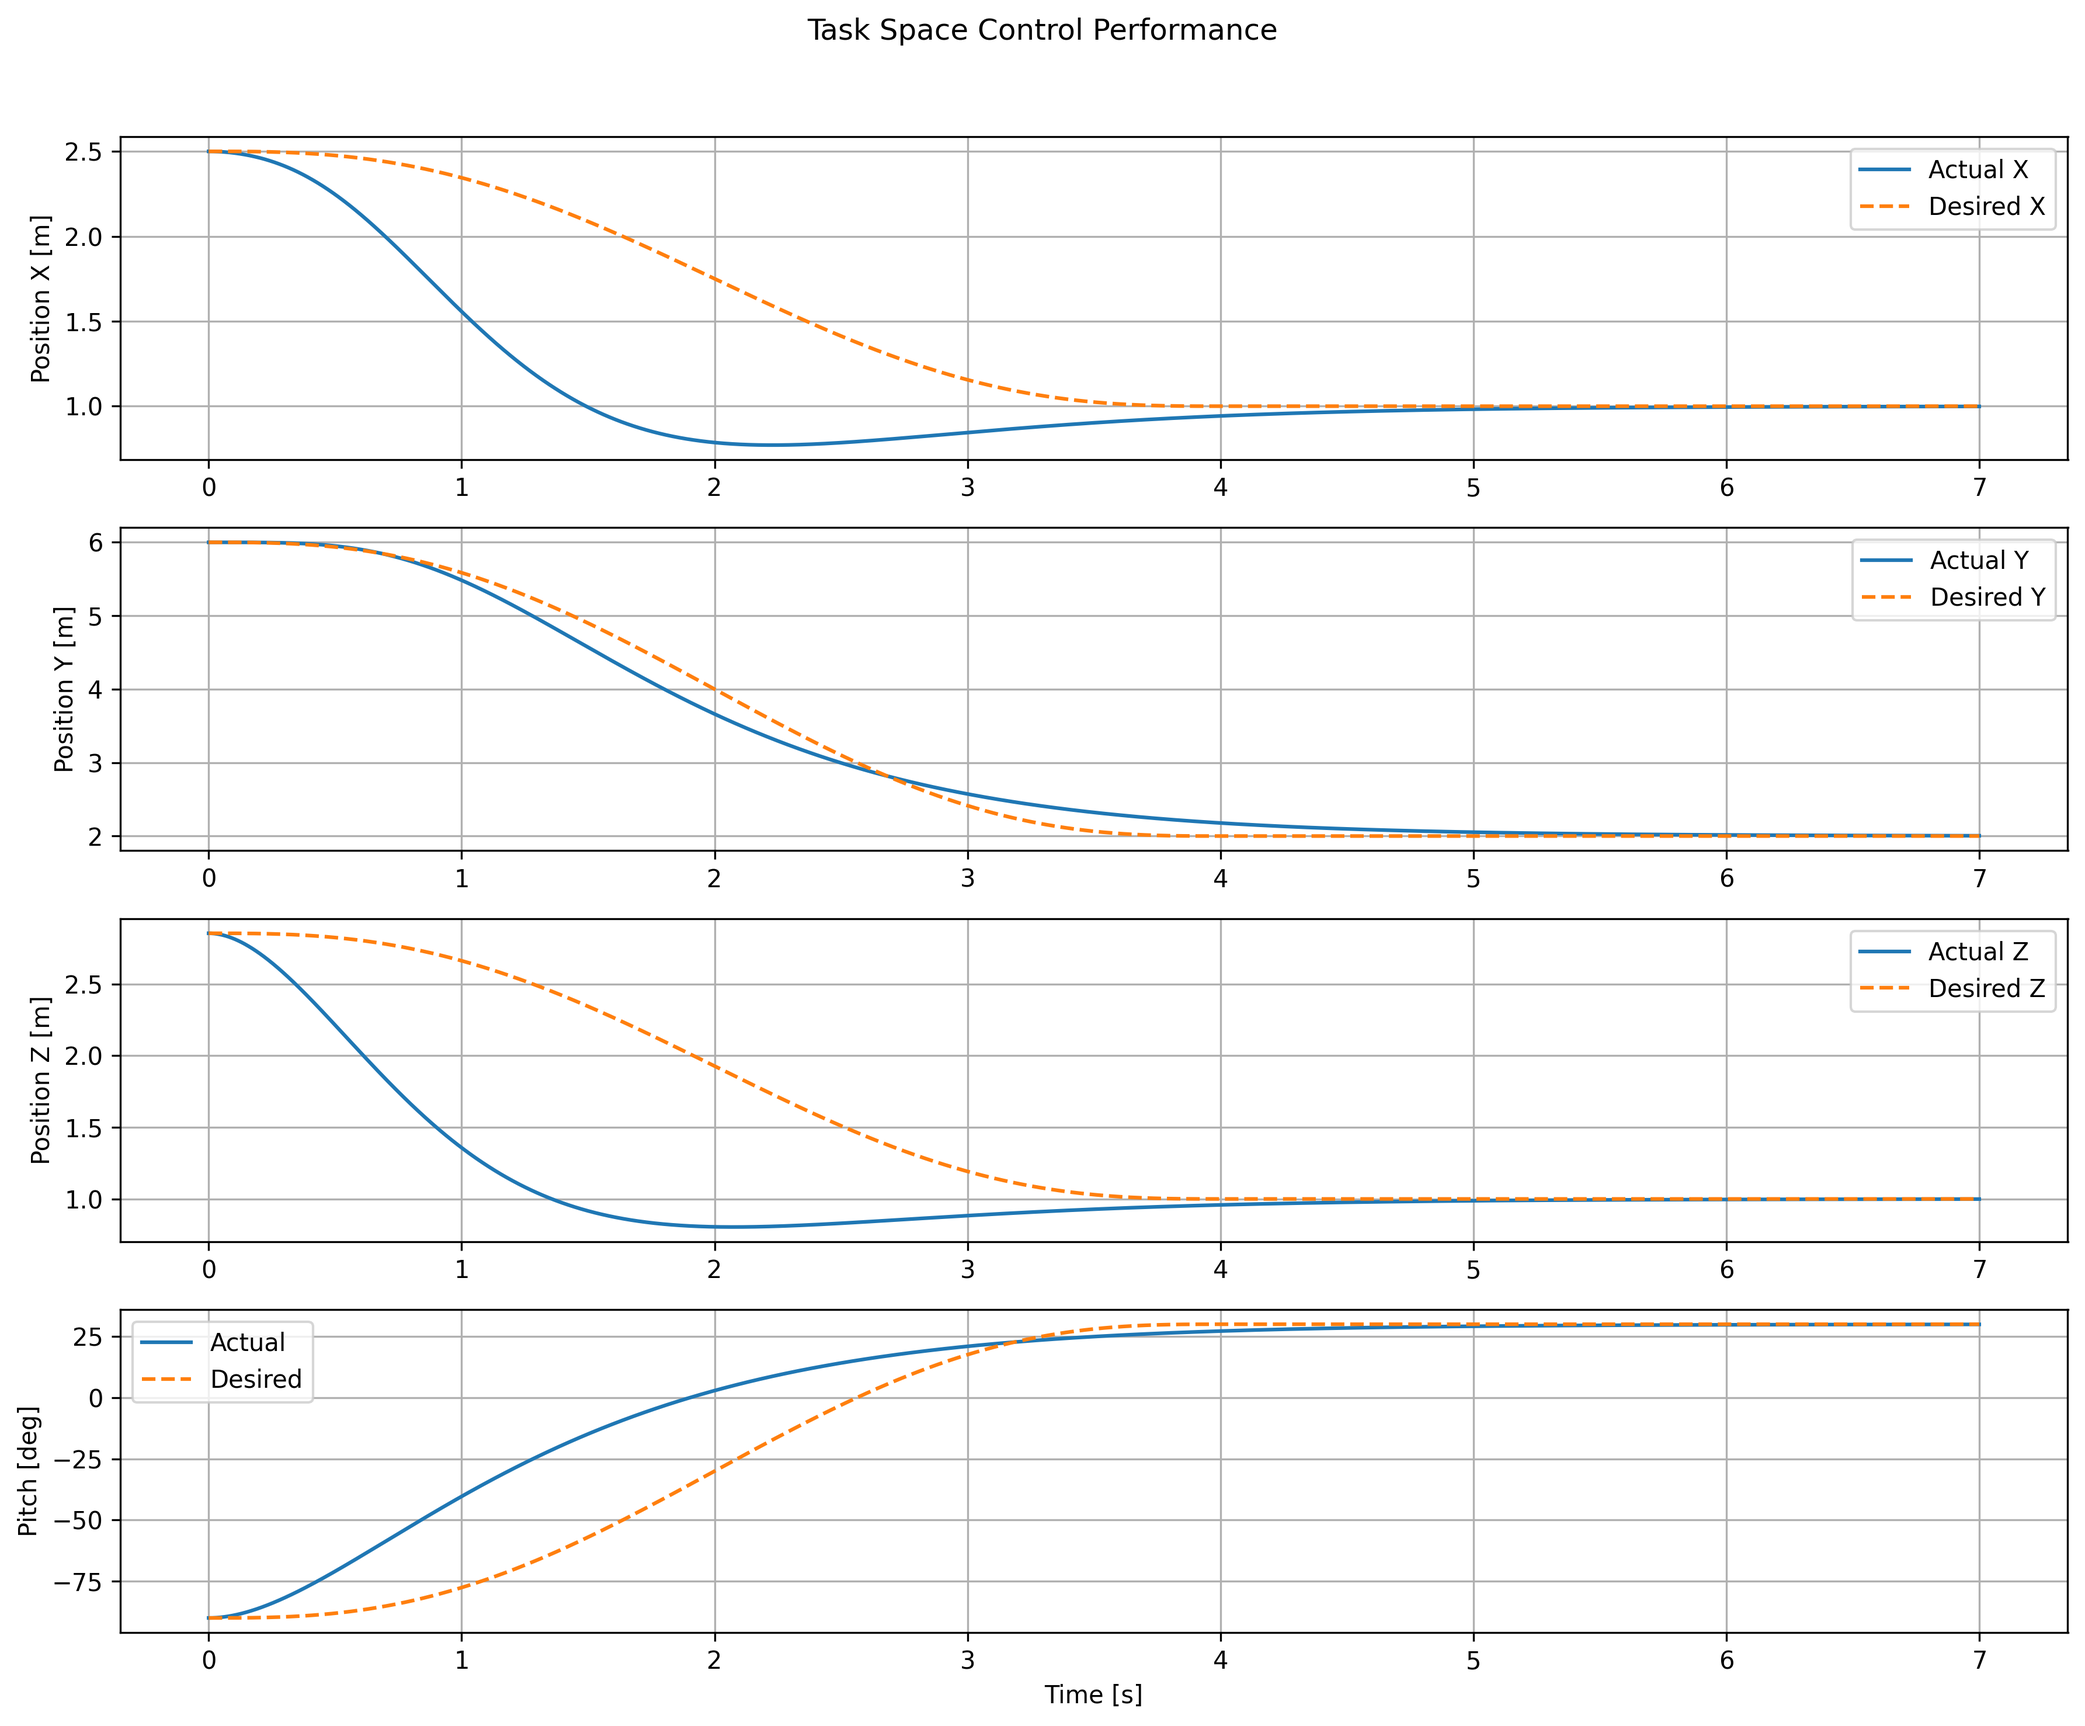
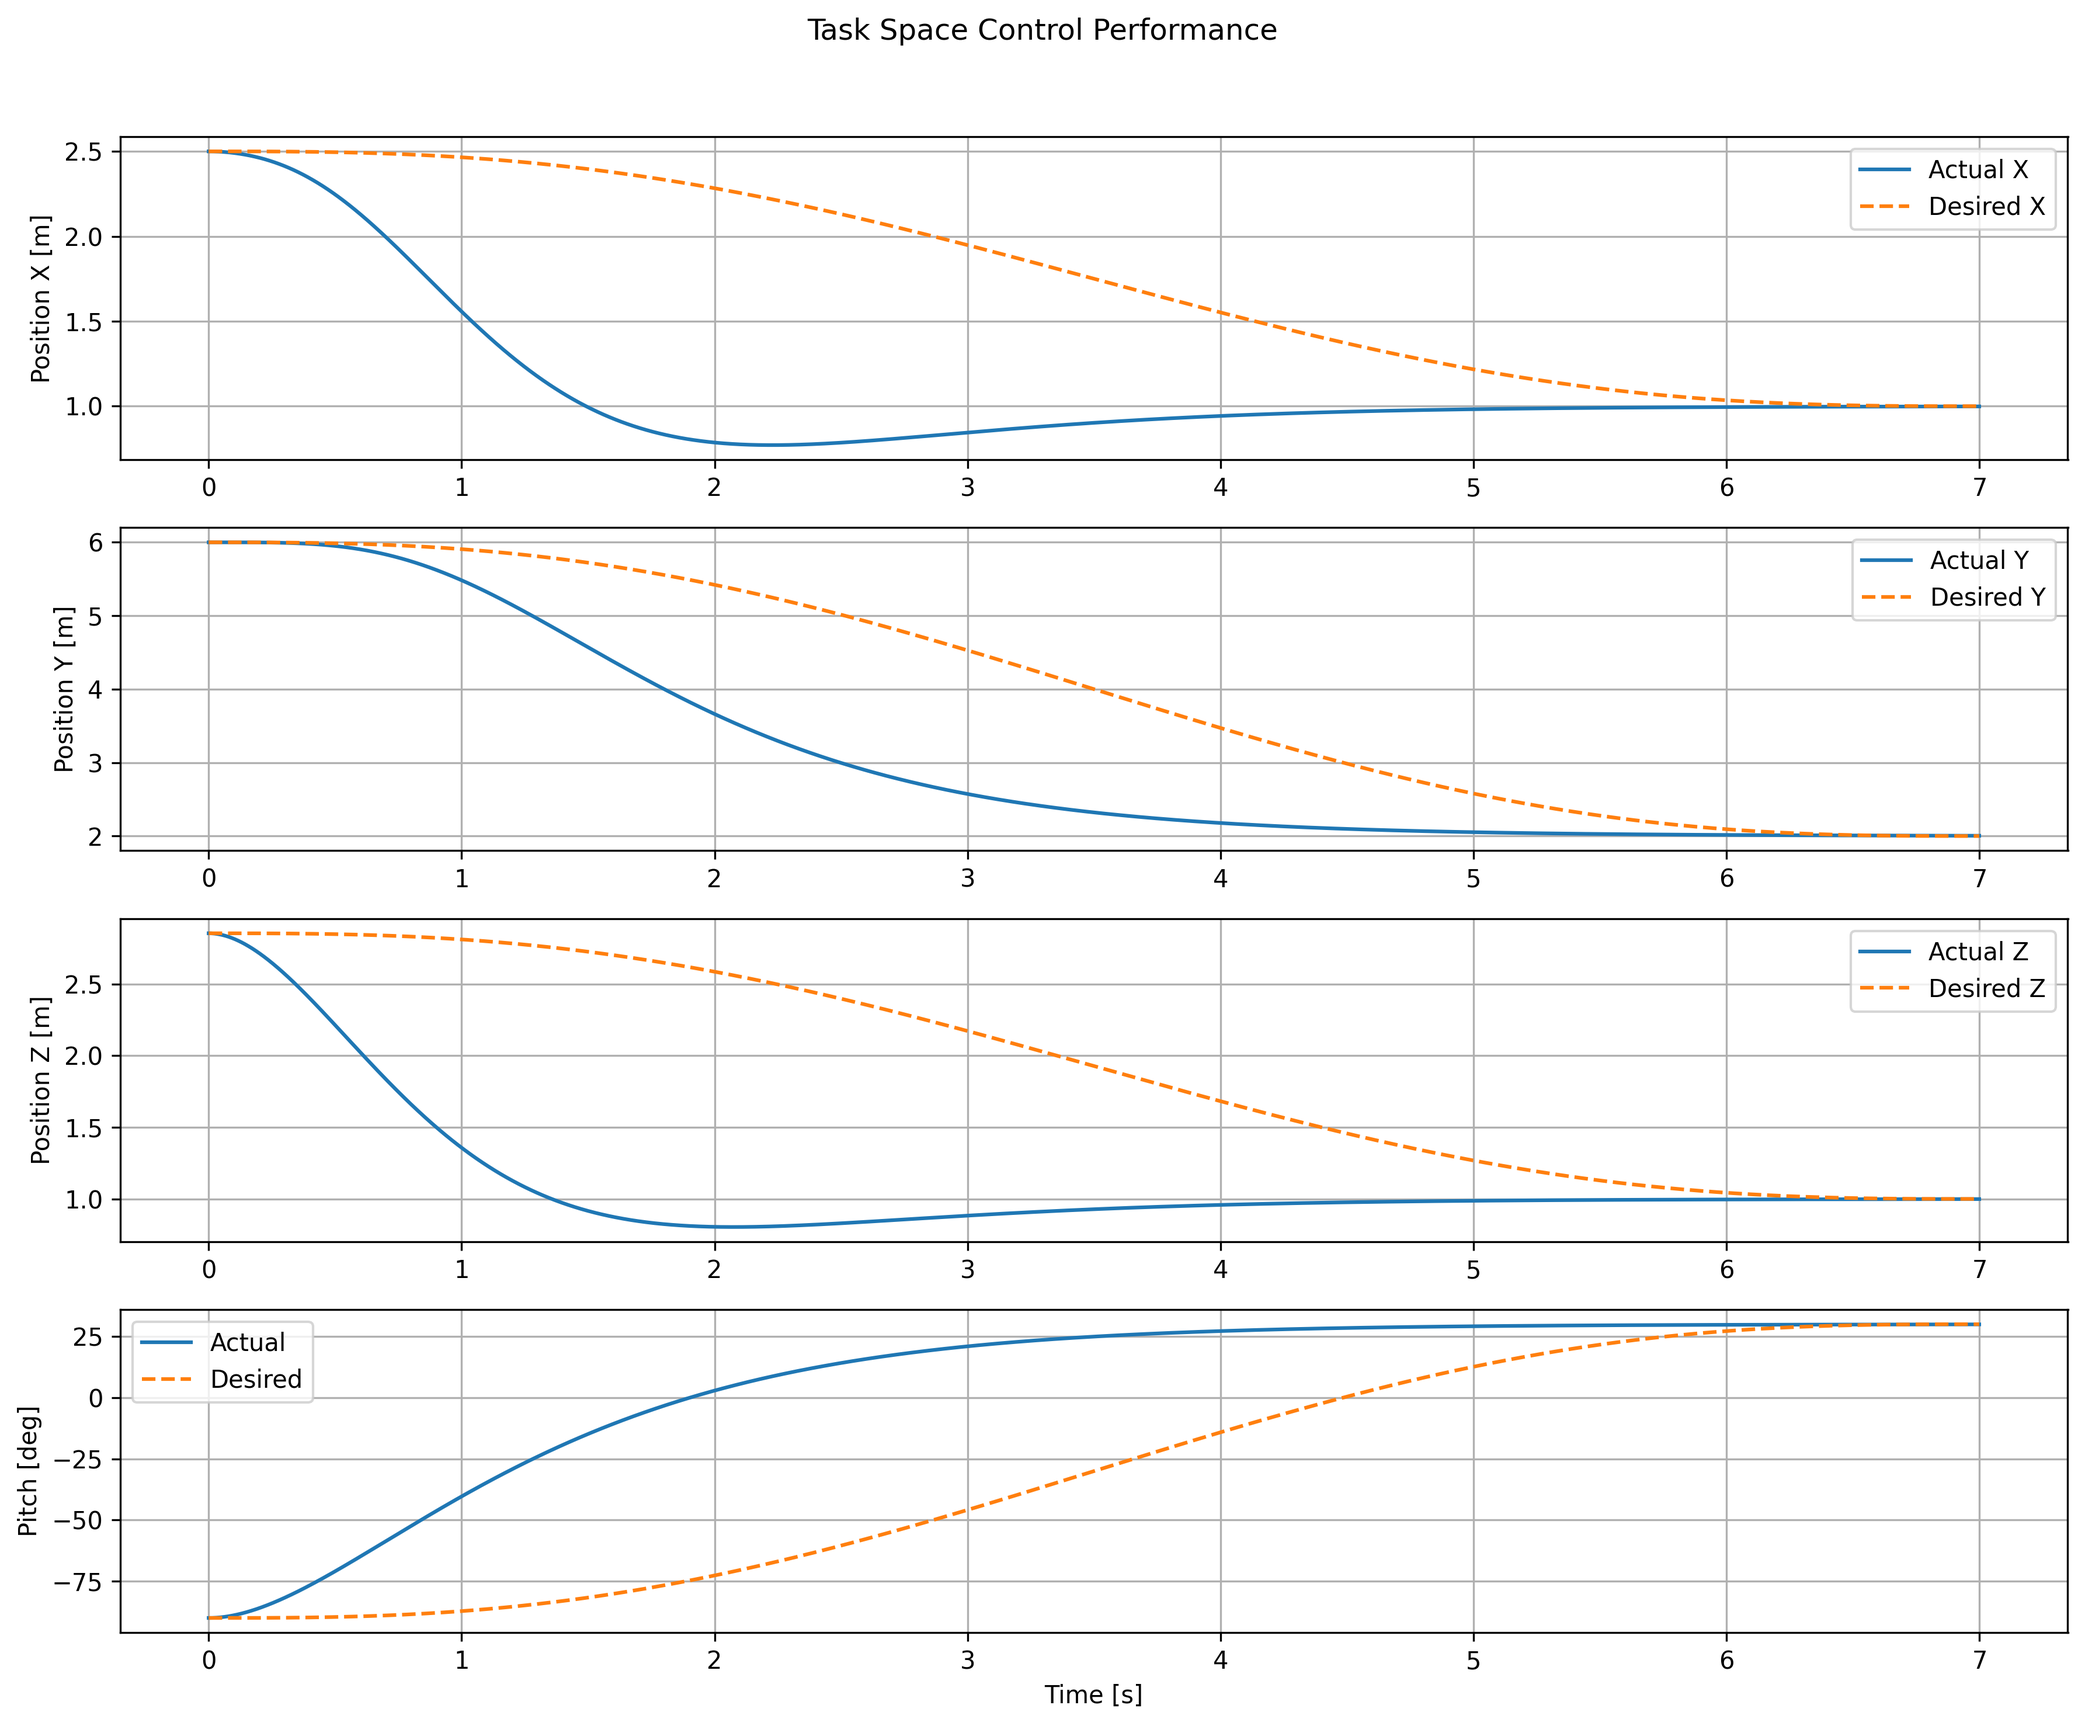
Fix trajectory

diff --git a/scripts/functions/task_space_controller.py b/scripts/functions/task_space_controller.py
@@ -17,17 +17,16 @@ class TaskSpaceController:
         self.frame_id = model.getFrameId(conf.frame_name)
         
         ts = 7.0  # settling time
-        damping_ratio = 1.3  # overdamped
         
         # Position gains
-        omega_n_pos = 4.0 / (ts * damping_ratio)
+        omega_n_pos = 4.0 / ts
         self.Kp_pos = np.eye(3) * omega_n_pos**2
-        self.Kd_pos = np.eye(3) * 2 * damping_ratio * omega_n_pos
+        self.Kd_pos = np.eye(3) * 2 * omega_n_pos
         
         # Pitch gains
-        omega_n_pitch = 4.0 / (ts * damping_ratio)
+        omega_n_pitch = 4.0 / ts
         self.Kp_pitch = omega_n_pitch**2
-        self.Kd_pitch = 2 * damping_ratio * omega_n_pitch
+        self.Kd_pitch = 2 * omega_n_pitch
         
         # Integral gains (small to prevent windup)
         self.Ki_pos = np.eye(3) * omega_n_pos**2 * 0.1
@@ -246,24 +245,56 @@ class TaskSpaceController:
 
         return tau
 
+    def precompute_trajectory(self, pitch_des_final):
+        """Pre-compute entire trajectory before simulation"""
+        time_steps = np.arange(0, conf.sim_duration, conf.dt)
+        trajectory = {
+            'p_des': np.zeros((3, len(time_steps))),
+            'v_des': np.zeros((3, len(time_steps))),
+            'a_des': np.zeros((3, len(time_steps))),
+            'pitch_des': np.zeros(len(time_steps)),
+            'pitch_vel_des': np.zeros(len(time_steps)),
+            'pitch_acc_des': np.zeros(len(time_steps))
+        }
+
+        for i, t in enumerate(time_steps):
+            p_des, v_des, a_des, pitch_des, pitch_vel_des, pitch_acc_des = \
+                self.generate_trajectory(t, pitch_des_final)
+
+            trajectory['p_des'][:, i] = p_des
+            trajectory['v_des'][:, i] = v_des
+            trajectory['a_des'][:, i] = a_des
+            trajectory['pitch_des'][i] = pitch_des
+            trajectory['pitch_vel_des'][i] = pitch_vel_des
+            trajectory['pitch_acc_des'][i] = pitch_acc_des
+
+        return trajectory
+
     def simulate(self, pitch_des_final):
         """Main simulation loop"""
         logs = self.initialize_logs()
         q, qd = conf.q0.copy(), np.zeros(self.model.nv)
         q0_calibrated = self.compute_postural_target(pitch_des_final)
         log_counter = 0
-        
+
         # Reset integrals at start of simulation
         self.pos_error_integral = np.zeros(3)
         self.pitch_error_integral = 0.0
-        
-        for t in np.arange(0, conf.sim_duration, conf.dt):
+
+        # Pre-compute entire trajectory
+        trajectory = self.precompute_trajectory(pitch_des_final)
+
+        for i, t in enumerate(np.arange(0, conf.sim_duration, conf.dt)):
             if log_counter >= len(logs['time']):
                 break
-                
-            # Generate trajectory
-            p_des, v_des, a_des, pitch_des, pitch_vel_des, pitch_acc_des = \
-                self.generate_trajectory(t, pitch_des_final)
+
+            # Get pre-computed trajectory values
+            p_des = trajectory['p_des'][:, i]
+            v_des = trajectory['v_des'][:, i]
+            a_des = trajectory['a_des'][:, i]
+            pitch_des = trajectory['pitch_des'][i]
+            pitch_vel_des = trajectory['pitch_vel_des'][i]
+            pitch_acc_des = trajectory['pitch_acc_des'][i]
             
             # Compute control
             tau = self.compute_control(q, qd, p_des, v_des, a_des, 

diff --git a/scripts/conf.py b/scripts/conf.py
@@ -22,7 +22,7 @@ pitch_des = 30    # desired end-effector pitch in degrees
 
 dyn_sim_duration = 3.   # duration of the dynamic simulation in seconds
 sim_duration = 7.       # total duration of the simulation in seconds
-traj_duration = 4.      # duration of the trajectory in seconds
+traj_duration = sim_duration  # duration of the trajectory in seconds
 
 
 
